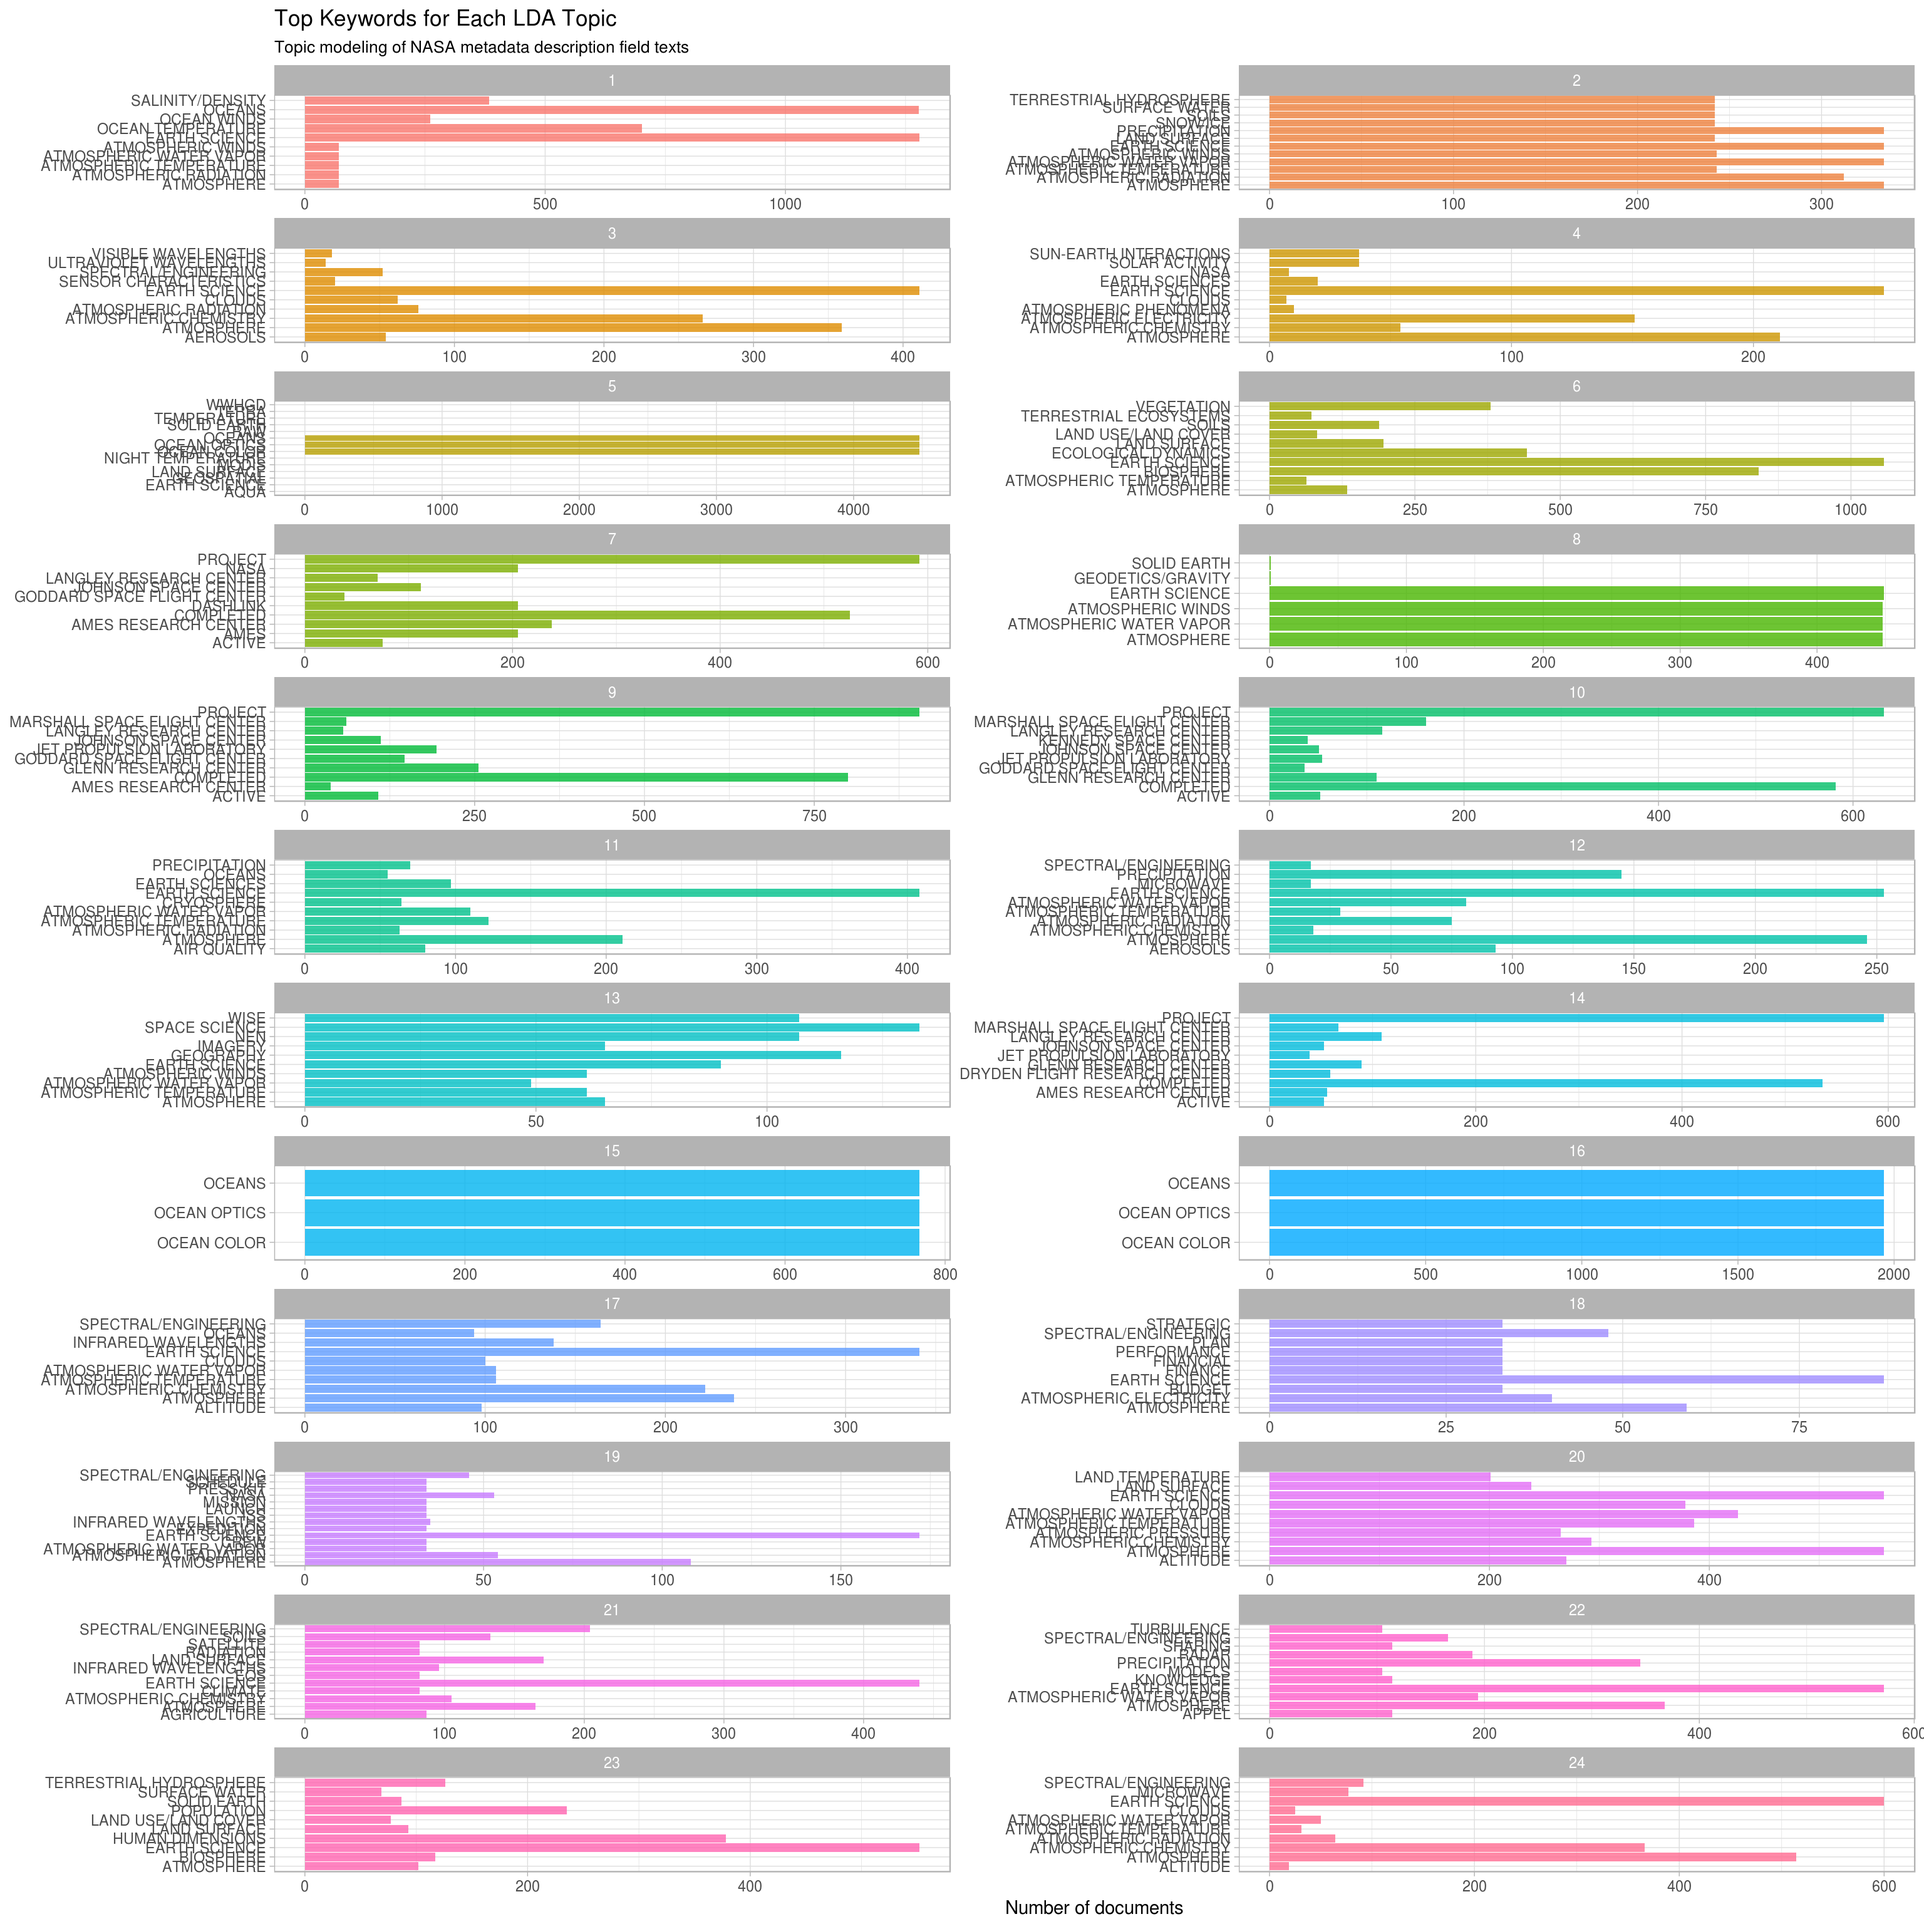
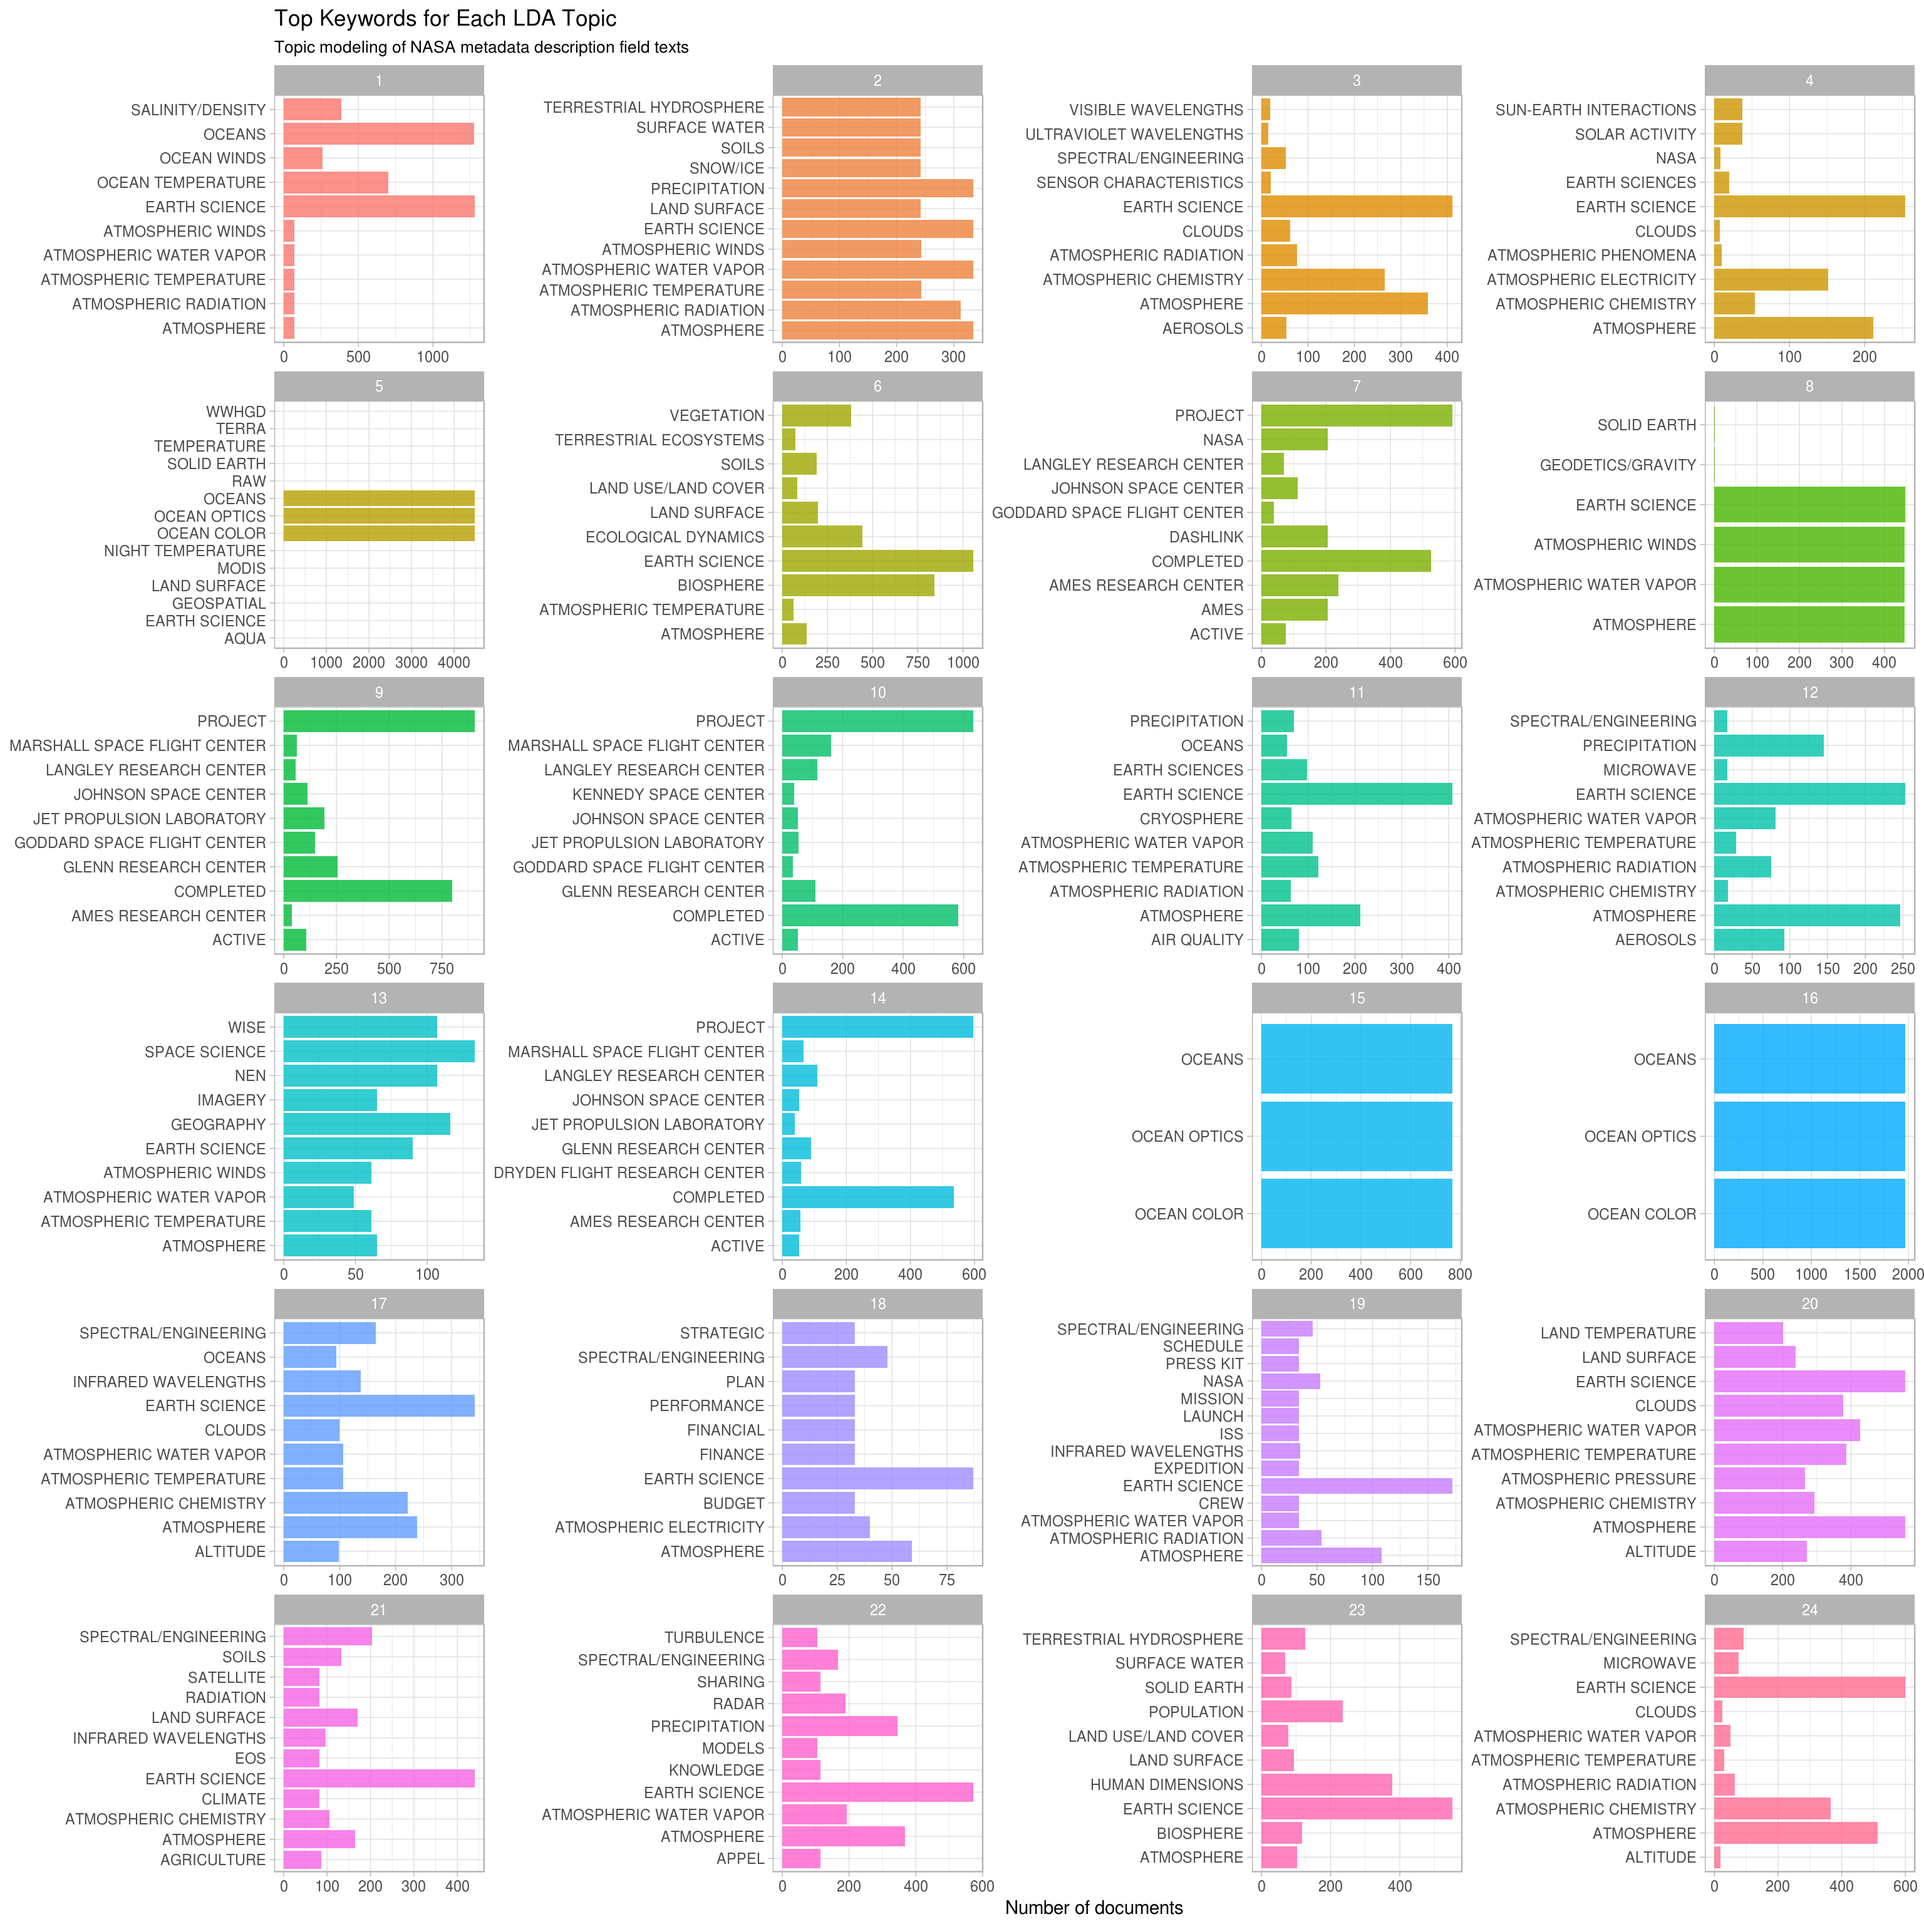
Updating book (180)

diff --git a/nasa.html b/nasa.html
@@ -215,7 +215,8 @@ code > span.in { color: #60a0b0; font-weight: bold; font-style: italic; } /* Inf
             <section class="normal" id="section-">
 <div id="nasa" class="section level1">
 <h1><span class="header-section-number">9</span> Case study: mining NASA metadata</h1>
-<p>There are 32,000+ datasets at <a href="https://www.nasa.gov/">NASA</a>, and we can use the metadata for these datasets to understand the connections between them. What is metadata? Metadata is data that gives information about other data, in this case, data about what is in these numerous NASA datasets (but not the datasets themselves). It includes information like the title of the dataset, description fields, what organization(s) within NASA is responsible for the dataset, and so forth. NASA places a high priority on making its data accessible, even requiring all NASA-funded research to be <a href="https://www.nasa.gov/press-release/nasa-unveils-new-public-web-portal-for-research-results">openly accessible online</a>, and the metadata for all its datasets is <a href="https://data.nasa.gov/data.json">publicly available online in JSON format</a>. Let’s take a look at this metadata and see what is there.</p>
+<p>There are 32,000+ datasets at <a href="https://www.nasa.gov/">NASA</a>, and we can use the metadata for these datasets to understand the connections between them. What is metadata? Metadata is data that gives information about other data, in this case, data about what is in these numerous NASA datasets (but not the datasets themselves). It includes information like the title of the dataset, description fields, what organization(s) within NASA is responsible for the dataset, keywords for the dataset that have been assigned by a human being, and so forth. NASA places a high priority on making its data accessible, even requiring all NASA-funded research to be <a href="https://www.nasa.gov/press-release/nasa-unveils-new-public-web-portal-for-research-results">openly accessible online</a>, and the metadata for all its datasets is <a href="https://data.nasa.gov/data.json">publicly available online in JSON format</a>.</p>
+<p>In this chapter, we will treat the NASA metadata as a text dataset and show how to implement several tidy text approaches with this real-life text. We will use word co-occurrences and correlations, tf-idf, and topic modeling. Since we have several text fields in the NASA metadata, most importantly the title, description, and keyword fields, we can explore the connections between the fields to better understand the complex world of data at NASA. This type of approach can be extended to many domains, so let’s take a look at this metadata and get started.</p>
 <div id="getting-the-metadata" class="section level2">
 <h2><span class="header-section-number">9.1</span> Getting the metadata</h2>
 <p>First, let’s download the JSON file and take a look at the names.</p>
@@ -788,7 +789,7 @@ top_keywords</code></pre></div>
        <span class="dt">subtitle =</span> <span class="st">&quot;Topic modeling of NASA metadata description field texts&quot;</span>,
        <span class="dt">x =</span> <span class="ot">NULL</span>, <span class="dt">y =</span> <span class="st">&quot;Number of documents&quot;</span>) +
 <span class="st">  </span><span class="kw">coord_flip</span>() +
-<span class="st">  </span><span class="kw">facet_wrap</span>(~topic, <span class="dt">ncol =</span> <span class="dv">2</span>, <span class="dt">scales =</span> <span class="st">&quot;free&quot;</span>)</code></pre></div>
+<span class="st">  </span><span class="kw">facet_wrap</span>(~topic, <span class="dt">ncol =</span> <span class="dv">4</span>, <span class="dt">scales =</span> <span class="st">&quot;free&quot;</span>)</code></pre></div>
 <p><img src="09-nasa-metadata_files/figure-html/plot_top_keywords-1.png" width="1536" /></p>
 <p>Let’s take a step back and remind ourselves what this plot is telling us. NASA datasets are tagged with keywords by human beings, and we have built an LDA topic model (with 24 topics) for the description fields of the NASA datasets. This plot answers the question, “For the datasets that have description fields with a high probability of belonging to a given topic, what are the most common human-assigned keywords?”</p>
 <p>It’s interesting that the keywords for topics 5, 15, and 16 are essentially duplicates of each other, because the top terms in those topics do exhibit meaningful differences. Also note that by number of documents, the combination of 5, 15, and 16 is quite a large percentage of the total number of datasets represented in this plot.</p>

diff --git a/09-nasa-metadata.md b/09-nasa-metadata.md
@@ -2,7 +2,9 @@
 
 
 
-There are 32,000+ datasets at [NASA](https://www.nasa.gov/), and we can use the metadata for these datasets to understand the connections between them. What is metadata? Metadata is data that gives information about other data, in this case, data about what is in these numerous NASA datasets (but not the datasets themselves). It includes information like the title of the dataset, description fields, what organization(s) within NASA is responsible for the dataset, and so forth. NASA places a high priority on making its data accessible, even requiring all NASA-funded research to be [openly accessible online](https://www.nasa.gov/press-release/nasa-unveils-new-public-web-portal-for-research-results), and the metadata for all its datasets is [publicly available online in JSON format](https://data.nasa.gov/data.json). Let's take a look at this metadata and see what is there.
+There are 32,000+ datasets at [NASA](https://www.nasa.gov/), and we can use the metadata for these datasets to understand the connections between them. What is metadata? Metadata is data that gives information about other data, in this case, data about what is in these numerous NASA datasets (but not the datasets themselves). It includes information like the title of the dataset, description fields, what organization(s) within NASA is responsible for the dataset, keywords for the dataset that have been assigned by a human being, and so forth. NASA places a high priority on making its data accessible, even requiring all NASA-funded research to be [openly accessible online](https://www.nasa.gov/press-release/nasa-unveils-new-public-web-portal-for-research-results), and the metadata for all its datasets is [publicly available online in JSON format](https://data.nasa.gov/data.json).
+
+In this chapter, we will treat the NASA metadata as a text dataset and show how to implement several tidy text approaches with this real-life text. We will use word co-occurrences and correlations, tf-idf, and topic modeling. Since we have several text fields in the NASA metadata, most importantly the title, description, and keyword fields, we can explore the connections between the fields to better understand the complex world of data at NASA. This type of approach can be extended to many domains, so let's take a look at this metadata and get started.
 
 ## Getting the metadata
 
@@ -851,7 +853,7 @@ top_keywords %>%
        subtitle = "Topic modeling of NASA metadata description field texts",
        x = NULL, y = "Number of documents") +
   coord_flip() +
-  facet_wrap(~topic, ncol = 2, scales = "free")
+  facet_wrap(~topic, ncol = 4, scales = "free")
 ```
 
 <img src="09-nasa-metadata_files/figure-html/plot_top_keywords-1.png" width="1536" />
